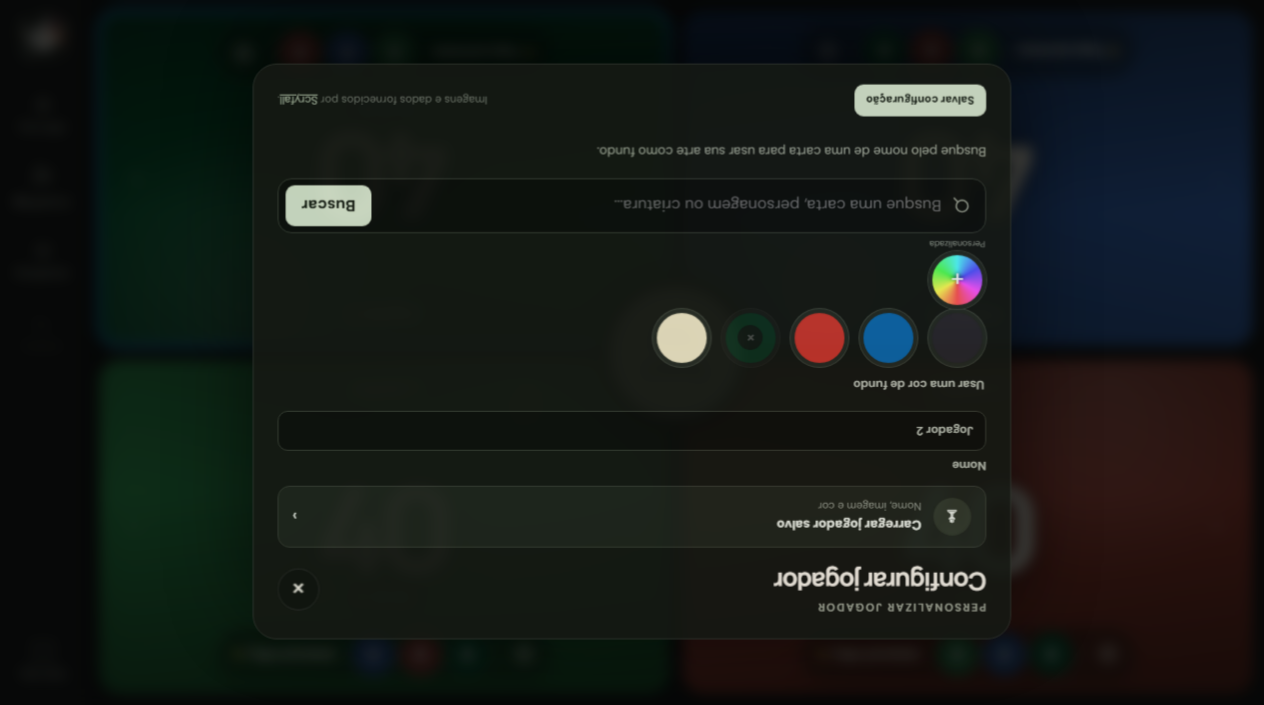
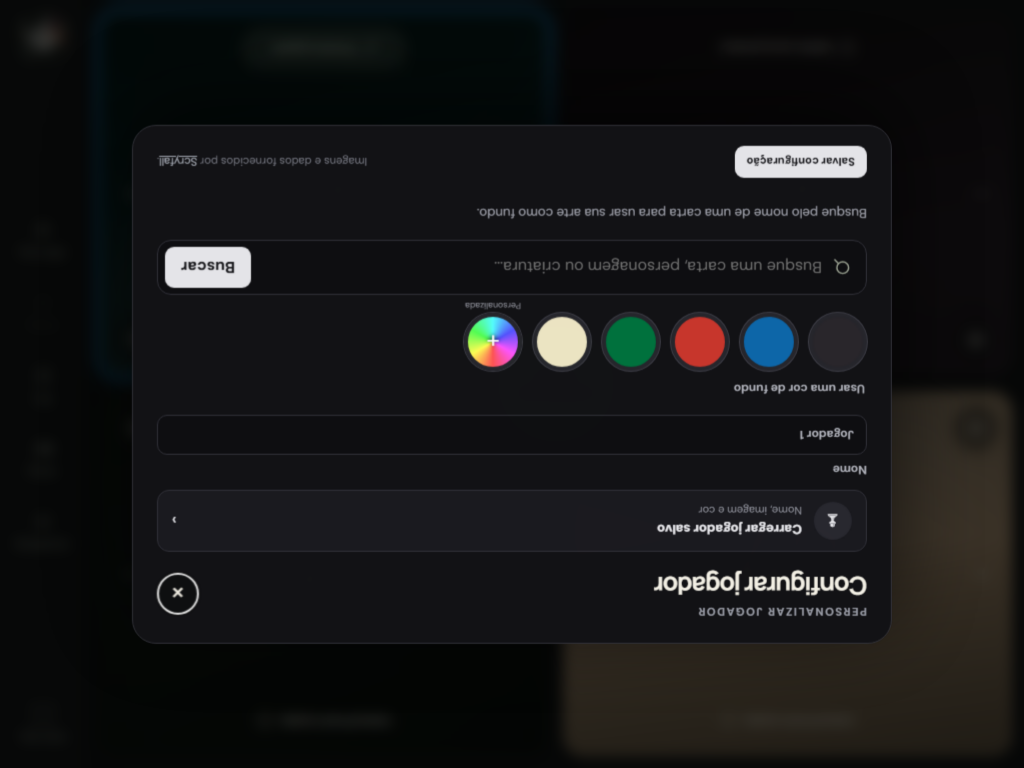
Refine turn flow and player card states

diff --git a/styles.css b/styles.css
@@ -200,6 +200,9 @@ input, textarea { -webkit-user-select: text; user-select: text; }
   transform: scale(1.01);
 }
 .player-card.is-opponent .player-backdrop { transform: rotate(180deg) scale(1.01); }
+.player-card.has-image.is-eliminated .player-backdrop { filter: grayscale(1); }
+.player-card.is-eliminated:not(.has-image),
+.player-card.is-eliminated:not(.has-image) .player-backdrop { background: #1a1a1d; }
 
 .player-backdrop::after {
   content: '';
@@ -397,9 +400,10 @@ input, textarea { -webkit-user-select: text; user-select: text; }
 .foolish-token {
   position: absolute;
   z-index: 4;
-  top: calc(max(12px, 4cqh) + 58px);
-  width: clamp(52px, 14cqh, 66px);
-  height: clamp(52px, 14cqh, 66px);
+  top: auto;
+  bottom: max(12px, 4cqh);
+  width: 54px;
+  height: 54px;
   overflow: hidden;
   padding: 0;
   border: 1px solid rgba(255,255,255,.3);
@@ -418,8 +422,8 @@ input, textarea { -webkit-user-select: text; user-select: text; }
   transform: rotate(180deg);
 }
 .player-card.is-opponent .foolish-token {
-  top: auto;
-  bottom: calc(max(12px, 4cqh) + 58px);
+  top: max(12px, 4cqh);
+  bottom: auto;
   transform: rotate(180deg);
 }
 .player-card.is-opponent .card-settings:hover { transform: rotate(180deg) translateY(-1px); }
@@ -488,7 +492,6 @@ input, textarea { -webkit-user-select: text; user-select: text; }
   max-width: 100%;
   padding: 0;
   pointer-events: auto;
-  overflow-x: auto;
   -ms-overflow-style: none;
   scrollbar-width: none;
   scrollbar-color: transparent transparent;
@@ -509,7 +512,7 @@ input, textarea { -webkit-user-select: text; user-select: text; }
   left: 50%;
   max-width: 94%;
   padding: 0 4px;
-  overflow-x: auto;
+  overflow: visible;
   pointer-events: auto;
   scrollbar-width: none;
   transform: translate(-50%, -50%);
@@ -544,9 +547,11 @@ input, textarea { -webkit-user-select: text; user-select: text; }
   outline-offset: -9px;
 }
 .reorder-mode .player-toolbar {
-  padding: 5px;
-  border-color: rgba(255,255,255,.28);
-  background: rgba(3,8,12,.76);
+  padding: 0;
+  border: 0;
+  background: transparent;
+  box-shadow: none;
+  backdrop-filter: none;
 }
 .drag-card-preview {
   position: fixed;
@@ -570,12 +575,17 @@ input, textarea { -webkit-user-select: text; user-select: text; }
   padding: 0 22px;
   border: 0;
   border-radius: 999px;
+  outline: 0;
   background: rgba(255,255,255,.12);
   color: #f7f4e9;
   cursor: grab;
+  -webkit-appearance: none;
+  appearance: none;
+  -webkit-tap-highlight-color: transparent;
   touch-action: none;
   user-select: none;
 }
+.reorder-handle:focus-visible { box-shadow: 0 0 0 3px rgba(255,255,255,.34); }
 .reorder-handle:active { cursor: grabbing; background: rgba(255,255,255,.2); }
 .reorder-handle span { font-size: 1.55rem; line-height: 1; }
 .reorder-handle strong { font: 700 .78rem 'Manrope'; letter-spacing: .01em; }
@@ -614,6 +624,7 @@ input, textarea { -webkit-user-select: text; user-select: text; }
 .counter-avatar { position: absolute; inset: 0; background-position: center; background-size: cover; }
 .counter-chip::after { content: ''; position: absolute; inset: 0; background: rgba(5,12,19,.42); }
 .counter-chip strong { position: relative; z-index: 1; font: 800 clamp(1rem, 3.5cqh, 1.25rem) 'Manrope'; text-shadow: 0 1px 5px rgba(0,0,0,.95); }
+.commander-chip { box-shadow: 0 4px 12px rgba(0,0,0,.68), 0 1px 3px rgba(0,0,0,.9); }
 .commander-chip.has-damage { border-color: rgba(255,255,255,.62); }
 .commander-chip.is-lethal { border: 3px solid #ff5147; color: #ff5147; }
 .commander-chip.is-lethal strong { color: #ff5147; }
@@ -834,6 +845,7 @@ input, textarea { -webkit-user-select: text; user-select: text; }
 .color-settings { margin: 0 24px 18px; padding: 0; border: 0; }
 .color-settings legend { margin-bottom: 10px; color: #b8bac3; font-size: .75rem; font-weight: 600; }
 .color-options { display: flex; flex-wrap: wrap; gap: 11px; }
+.preset-color-options { display: contents; }
 .color-option, .custom-color {
   position: relative;
   display: grid;

diff --git a/app.js b/app.js
@@ -596,11 +596,10 @@ function updateControls() {
   passTurnButton.disabled = isChoosingStarter || gameWon;
   const orientedPlayerId = state.winnerPlayerId || state.priorityPlayerId || state.turnPlayerId;
   const turnPlayerTableIndex = tableIndexForPlayer(orientedPlayerId);
-  const nextTurnButtonSide = state.gameStarted && !isReordering
-    && turnPlayerTableIndex < opponentCount(state.players.length)
+  const nextTurnButtonSide = !isReordering && turnPlayerTableIndex < opponentCount(state.players.length)
     ? 1
     : 0;
-  if (state.gameStarted && !isReordering && nextTurnButtonSide !== turnButtonSide) {
+  if (!isReordering && nextTurnButtonSide !== turnButtonSide) {
     turnButtonRotation += 180;
     turnButtonSide = nextTurnButtonSide;
   }
@@ -1504,11 +1503,13 @@ function tickTimer() {
   player.timerSeconds = Math.max(0, player.timerSeconds - elapsedSeconds);
 
   if (player.timerSeconds === 0) {
+    const timedOutTurnPlayer = player.id === state.turnPlayerId;
     if (state.priorityPlayerId === player.id) state.priorityPlayerId = null;
     playDeathSoundIfNeeded(player, false);
     addLogEntry('timeout', `Tempo de ${player.name} esgotou`, before, false, player.id);
     logPlayerEliminationChange(player, false, before);
-    render();
+    if (timedOutTurnPlayer && !state.winnerPlayerId) passTurn();
+    else render();
     return;
   }
 
@@ -1548,21 +1549,15 @@ function passTurn(direction = 1) {
   if (!nextPlayer || isPlayerEliminated(nextPlayer)) return;
   state.turnPlayerId = state.tableOrder[nextIndex];
   state.priorityPlayerId = null;
-  const previousTurnNumber = state.turnNumber;
   if (crossedRoundStart) state.turnNumber = Math.max(1, state.turnNumber + direction);
   lastTimerTick = Date.now();
-  if (state.turnNumber !== previousTurnNumber) {
-    addLogEntry(
-      'turn',
-      state.turnNumber > previousTurnNumber
-        ? `Turno incrementado: ${previousTurnNumber} → ${state.turnNumber}`
-        : `Turno reduzido: ${previousTurnNumber} → ${state.turnNumber}`,
-      before,
-    );
-  } else {
-    state.redoLog = [];
-    saveState();
-  }
+  addLogEntry(
+    'turn',
+    `Turno ${state.turnNumber} de ${nextPlayer.name} iniciou`,
+    before,
+    true,
+    nextPlayer.id,
+  );
   if (randomIndex(100) < 3) {
     playSound(SOUND_PATHS.randomTurn[randomIndex(SOUND_PATHS.randomTurn.length)]);
   }
@@ -1591,7 +1586,13 @@ function startOrPassTurn() {
   state.gameStarted = true;
   state.gamePaused = false;
   lastTimerTick = Date.now();
-  addLogEntry('start', `Partida iniciada por ${firstPlayer.name}`, null, false, firstPlayer.id);
+  addLogEntry(
+    'turn',
+    `Turno ${state.turnNumber} de ${firstPlayer.name} iniciou`,
+    null,
+    false,
+    firstPlayer.id,
+  );
   render();
 }
 
@@ -1602,13 +1603,10 @@ function takePriority(playerId) {
   finishPendingLifeChanges();
   tickTimer();
   const before = gameSnapshot();
-  const previousPriority = state.players.find((item) => item.id === state.priorityPlayerId);
   state.priorityPlayerId = playerId === state.priorityPlayerId ? null : playerId;
   lastTimerTick = Date.now();
   const message = state.priorityPlayerId
-    ? previousPriority
-      ? `${previousPriority.name} encerrou a prioridade; ${player.name} pegou a prioridade`
-      : `${player.name} pegou a prioridade`
+    ? `${player.name} pegou a prioridade`
     : `${player.name} encerrou a prioridade`;
   addLogEntry('priority', message, before, true, player.id);
   render();

diff --git a/index.html b/index.html
@@ -81,12 +81,14 @@
       </div>
       <fieldset class="color-settings">
         <legend>Usar uma cor de fundo</legend>
-        <div id="color-options" class="color-options"></div>
-        <label class="custom-color" title="Escolher cor personalizada">
-          <input id="custom-color" type="color" />
-          <span aria-hidden="true">+</span>
-          <small>Personalizada</small>
-        </label>
+        <div class="color-options">
+          <div id="color-options" class="preset-color-options"></div>
+          <label class="custom-color" title="Escolher cor personalizada">
+            <input id="custom-color" type="color" />
+            <span aria-hidden="true">+</span>
+            <small>Personalizada</small>
+          </label>
+        </div>
       </fieldset>
       <form id="image-search" class="search-form">
         <svg viewBox="0 0 24 24" aria-hidden="true"><circle cx="11" cy="11" r="7" /><path d="m16 16 5 5" /></svg>
